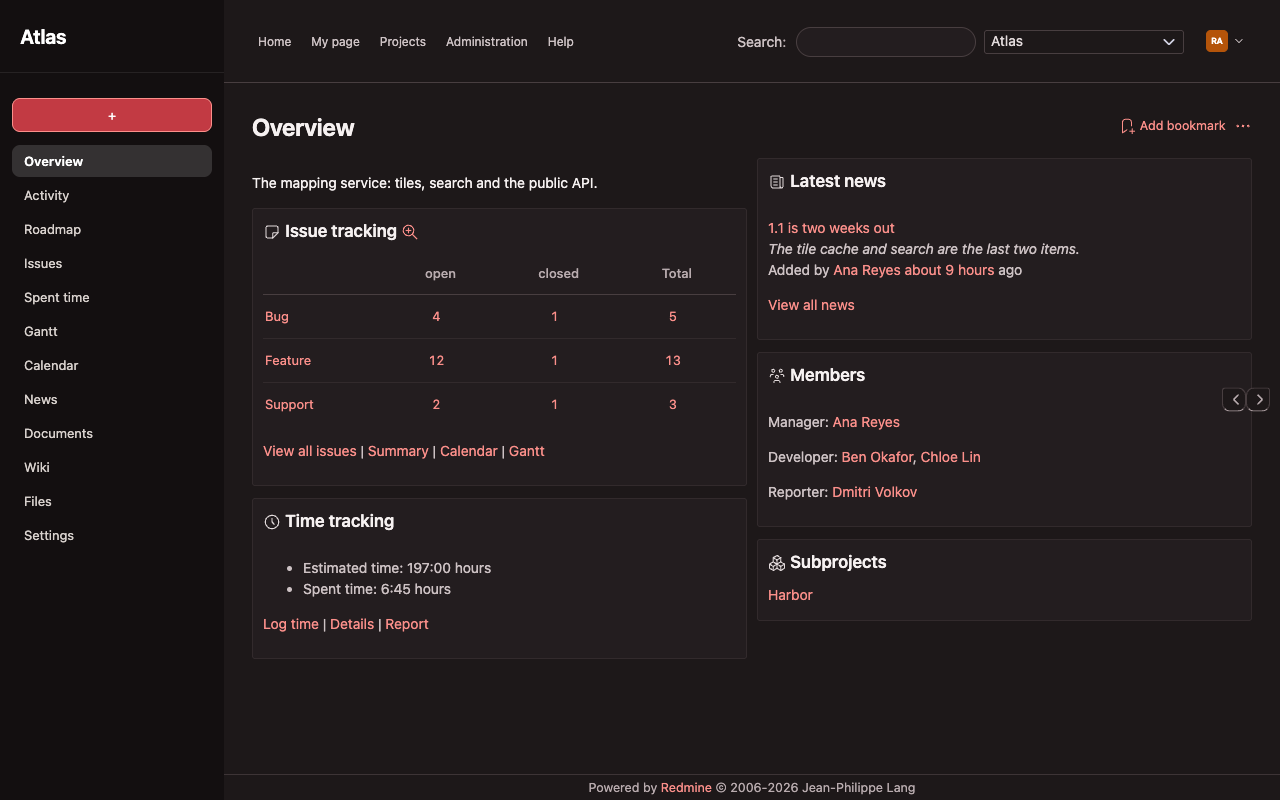
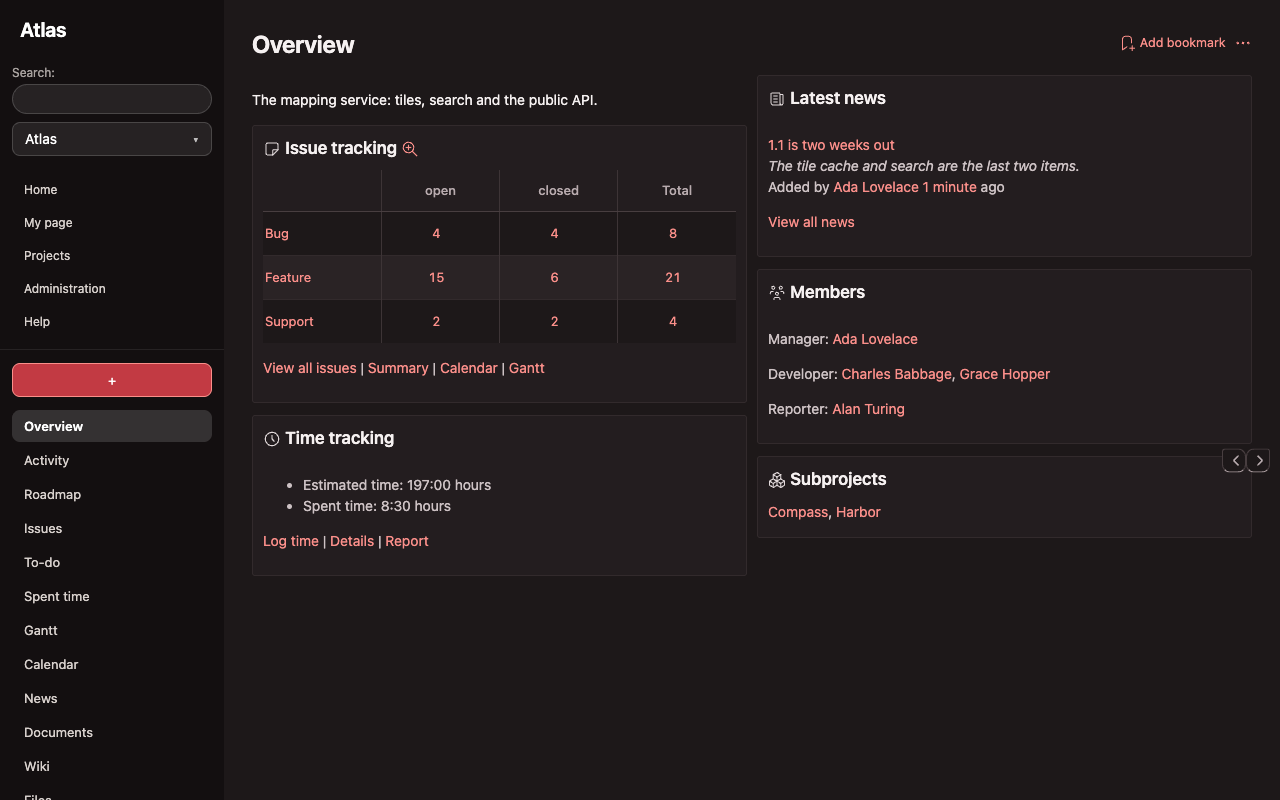
docs: new screenshots and walkthrough, and the dark mode note
refs #1629

diff --git a/README.md b/README.md
@@ -1,20 +1,22 @@
 # Morganite for Redmine
 
-Peach and coral on white, with airy list rows and soft shadows.
+Warm neutrals and a coral accent, with all navigation in a dark sidebar.
 
-A theme for Redmine 7 and up. It is CSS only, with no script, no plugin and no change to Redmine itself. Made for light mode;
-a dark set is included but not recommended (see [Dark mode](#dark-mode)).
+A theme for Redmine 7 and up. It is CSS only, with no script, no plugin and no change to Redmine itself. Light first, with a dark set that follows your system setting (see [Dark mode](#dark-mode)).
 
-![A walk through Morganite: the project, the issue list, an issue and the new-issue form](docs/demo/walkthrough-light.gif)
+![A walk through Morganite: the issue list, an issue, the wiki, the to-do page and the new-issue form](docs/demo/walkthrough-light.gif)
 
 | | |
 |---|---|
 | ![The issue list](docs/screenshots/issues-light.png) | ![An issue](docs/screenshots/issue-light.png) |
-| ![The new issue form](docs/screenshots/new-issue-light.png) | ![The login page](docs/screenshots/login-light.png) |
+| ![The wiki](docs/screenshots/wiki-light.png) | ![The to-do page](docs/screenshots/todo-light.png) |
+| ![The project list](docs/screenshots/projects-light.png) | ![The new issue form](docs/screenshots/new-issue-light.png) |
 
-Dark mode is included but not recommended (see [Dark mode](#dark-mode)):
+Dark mode:
 
-![The issue list in dark mode](docs/screenshots/issues-dark.png)
+| | |
+|---|---|
+| ![The issue list in dark mode](docs/screenshots/issues-dark.png) | ![An issue in dark mode](docs/screenshots/issue-dark.png) |
 
 ## Contents
 
@@ -42,7 +44,7 @@ take their colours from the same variables and are fixed up as problems turn up.
 
 ## Dark mode
 
-Dark mode is supported and follows your system setting, but it is not recommended. Morganite is designed in light, and it does not look as good in dark. If you would rather the theme stayed light, delete the `@media (prefers-color-scheme: dark)` block at the end of `morganite/stylesheets/application.css`; every dark rule is in that one block.
+Dark mode follows your system setting and is part of the design, not an afterthought. If you would rather the theme stayed light, delete the `@media (prefers-color-scheme: dark)` block at the end of `morganite/stylesheets/application.css`; every dark rule is in that one block.
 
 ## Compatibility
 
@@ -60,6 +62,9 @@ npm run screenshots     # docs/screenshots
 npm run record          # docs/demo, a GIF of a walk through the pages
 ruby bin/demo reset     # wipe the demo
 ```
+
+If a copy of the Rubylode to-do plugin sits next to this repository (`../redmine-rubylode-todo`, or set `TODO_PLUGIN_PATH`), the demo mounts it and
+the check, screenshots and recording include its page. Without it they skip that page.
 
 The check fails on console errors, failed requests, sideways scrolling and text below WCAG AA contrast. `REDMINE_TAG=7.0 ruby bin/demo up`
 runs it against another Redmine version. After you change the stylesheet, run `ruby bin/demo restart` and reload: Redmine caches theme

diff --git a/CHANGELOG.md b/CHANGELOG.md
@@ -7,7 +7,7 @@ All notable changes to this theme. The format follows [Keep a Changelog](https:/
 ### Added
 
 - Morganite: warm neutrals and a coral accent on a white page, in the Open Color variables Redmine 7 is built on.
-- On screens 1100px and wider, the project menu moves into a dark left sidebar, in plain CSS; narrower screens keep Redmine's own layout.
-- The issue list without zebra stripes, the issue as a quiet card, rounded fields and buttons, and a login card.
-- A dark set for the system dark setting, in one block at the end of the stylesheet. Supported, but not recommended.
-- Tested on Redmine 7.0.2 and the 7.0 line, in light and dark, at desktop and phone width: no console errors, no failed requests, no sideways scrolling, and text at AA contrast on the pages that matter.
+- On screens 1100px and wider, all navigation moves into a dark left sidebar, in plain CSS: the title, search and project jump, the general links, the project menu (or the administration menu) and, at the bottom, the profile. The white top bar is gone. Narrower screens and the login page keep Redmine's own layout.
+- Striped rows and thin column lines in tables, a quiet card for the issue, rounded fields and buttons, a login card, wiki headings and tables.
+- A dark set for the system dark setting, in one block at the end of the stylesheet.
+- Tested on Redmine 7.0.2 and the 7.0 line, in light and dark, at desktop and phone width: no console errors, no failed requests, no sideways scrolling, and text at AA contrast on the pages that matter, including the wiki and the Rubylode to-do page.
